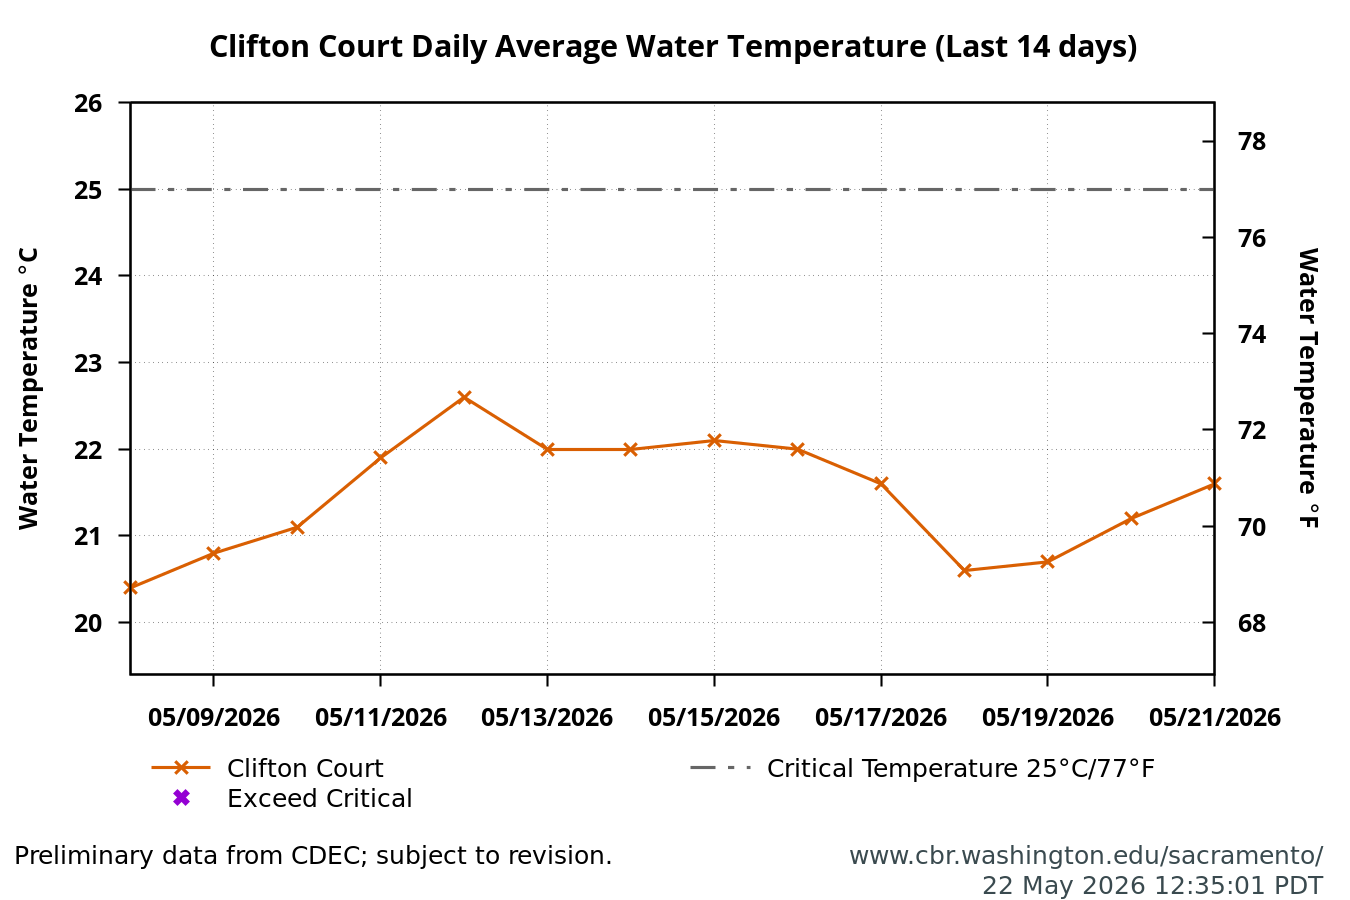
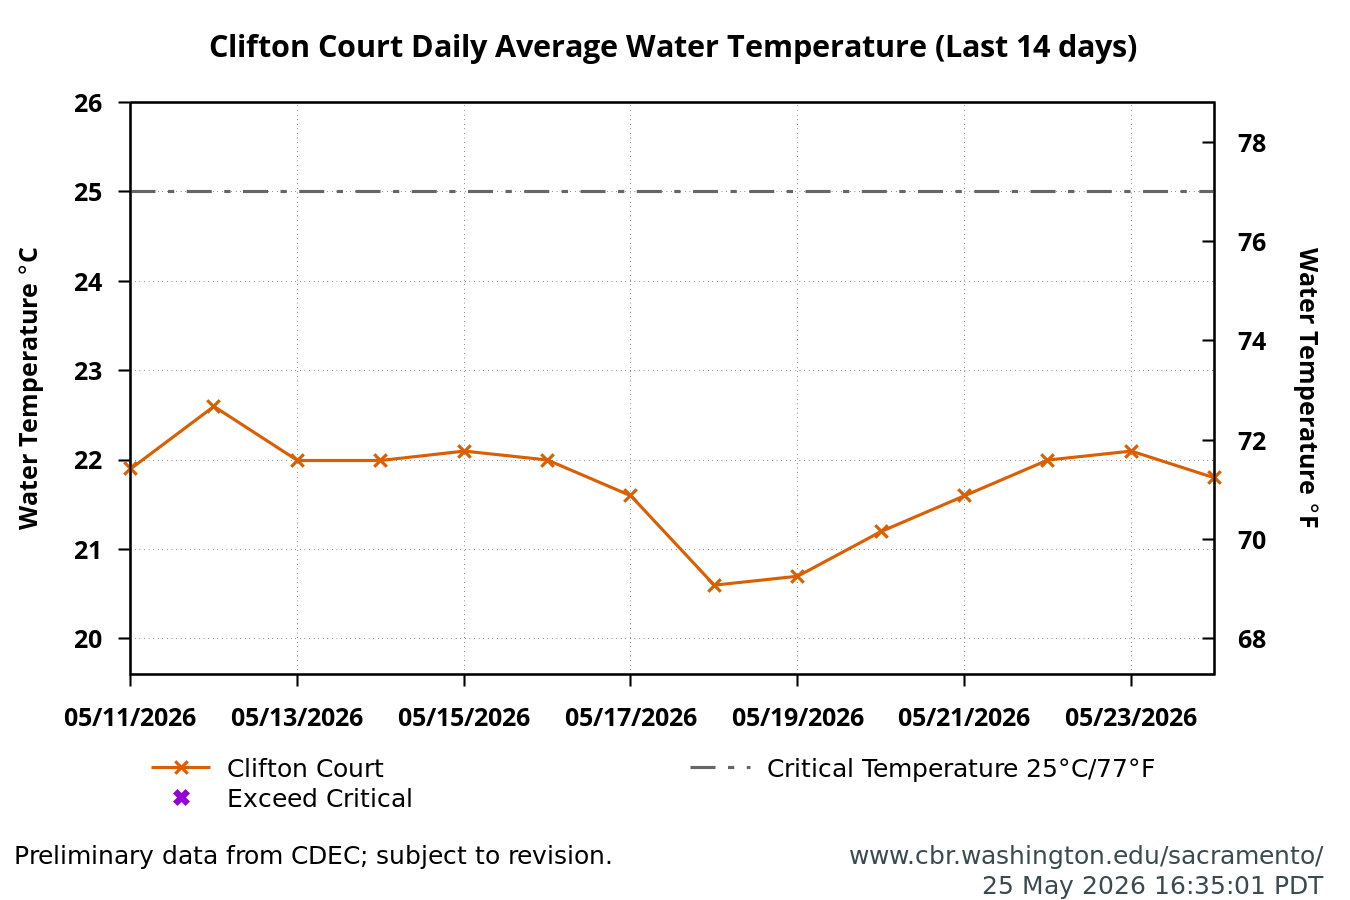
Assessments: Updated smelt assessment text 5/25

diff --git a/smt-assessment-v1.html b/smt-assessment-v1.html
@@ -114,7 +114,7 @@ window.Quarto = {
 
 <section id="weekly-assessment-for-delta-operations-on-esa-and-cesa-listed-osmerids" class="level2">
 <h2 class="anchored" data-anchor-id="weekly-assessment-for-delta-operations-on-esa-and-cesa-listed-osmerids">Weekly Assessment for Delta Operations on ESA and CESA-listed Osmerids</h2>
-<p>Last updated: <em>May 22, 2026</em></p>
+<p>Last updated: <em>May 25, 2026</em></p>
 <section id="executive-summary" class="level3">
 <h3 class="anchored" data-anchor-id="executive-summary">Executive Summary</h3>
 <ul>
@@ -701,8 +701,7 @@ Figure&nbsp;4: Time series of longfin smelt catch, WY 2026
 <li><p>If JPF &lt; 0, what is the trajectory of annual loss of adult longfin smelt and is it likely to exceed 5% of the adult population estimate? Is South Delta entrainment expected to decrease due to a reduction in export pumping?</p>
 <p>While JPF may decrease to &lt; 0 cfs during this week, no adult longfin smelt have been detected in salvage this water year and so conditions are not met for the adult longfin smelt entrainment protection action.</p></li>
 <li><p>For larval and juvenile longfin smelt, if JPF &lt; 0 cfs, do particle tracking models show a moderate to high difference in particle fates across different OMRI scenarios? Does Zone of Influence modeling show moderate to high changes in hydrodynamic footprint across different OMRI scenarios? Are these effects anticipated to cause a population decline?</p>
-<p>JPF may decrease to &lt; 0 cfs this week. However, PTM and Zone of Influence modeling indicate a low risk of entrainment for the larval and juvenile Longfin Smelt population. The Longfin smelt larval population and PTM analysis projects low entrainment relative to estimated abundance* for this week. The model shows the estimated entrainment for this week is estimated to be &lt;0.1% for the -2,000, -3,500, and -5,000 cfs OMRI scenarios. In addition, PTM for surface-oriented particles injected at both Chipps Island and Jersey Point show 0-1.4% entrainment at the projects for this week for OMRI of –2,000, -3,500, and –5,000 cfs.</p>
-<p>*Please note that due to processing/posting time for 20-mm survey data results, larval longfin smelt abundance for this model is being calculated from completed SLS survey data, and has not yet been updated to use 20-mm data. As a result, data from this model should be interpreted with caution.</p>
+<p>JPF may decrease to &lt; 0 cfs this week. However, PTM and Zone of Influence modeling indicate a low risk of entrainment for the larval and juvenile Longfin smelt population. PTM results for surface-oriented particles injected at Chipps Island show 0% entrainment for OMRI of -2,000, -3,500, and -5,000 cfs. PTM results from particles injected at Jersey Point show 0-0.1% entrainment at the projects for this week for OMRI of –2,000, 0.1-0.9% for OMRI of -3,500, and 0.1-1.9% entrainment at OMRI of –5,000 cfs.</p>
 <p>Zone of Influence modeling indicates moderate differences in the hydrodynamic footprint across OMRI scenarios; however, the Zone of Influence does not extend into the western or far western regions where the majority of Longfin Smelt larvae and juveniles have been detected. Therefore, these effects are not anticipated to result in a population decline.</p></li>
 <li><p>Is there additional information or other analyses that should be considered in this evaluation?</p>
 <p>Please see Appendix A for additional information.</p></li>
@@ -713,7 +712,7 @@ Figure&nbsp;4: Time series of longfin smelt catch, WY 2026
 <h3 class="anchored" data-anchor-id="end-of-smelt-entrainment-management">End of smelt Entrainment Management</h3>
 <p><strong>Threshold</strong>: CLC <span class="math inline">\(\ge\)</span> 25<span class="math inline">\(^{\circ}\)</span>C (77<span class="math inline">\(^{\circ}\)</span>F) for 3 consecutive days OR June 30</p>
 <ul>
-<li>Clifton Court Temperature: 20.7, 21.2, 21.6<span class="math inline">\(^{\circ}\)</span>C as of May 21, 2026</li>
+<li>Clifton Court Temperature: 22, 22.1, 21.8<span class="math inline">\(^{\circ}\)</span>C as of May 24, 2026</li>
 </ul>
 <div class="cell">
 <div class="cell-output-display">
